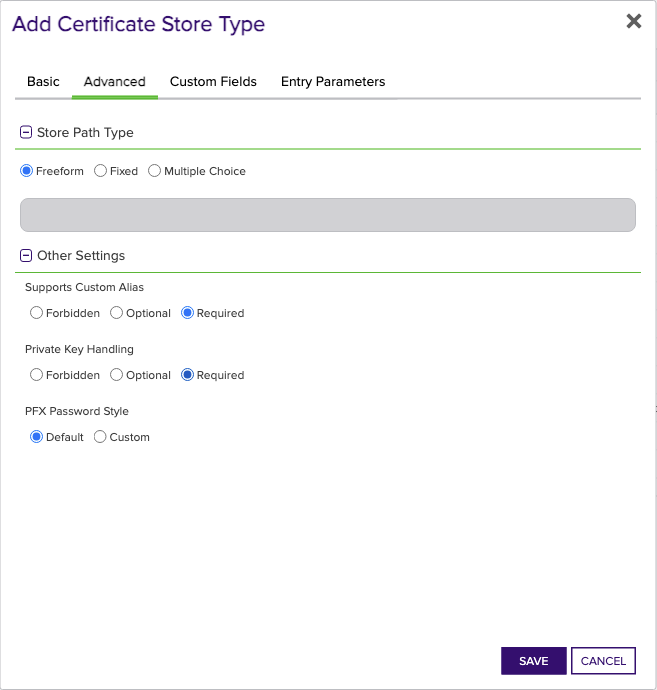
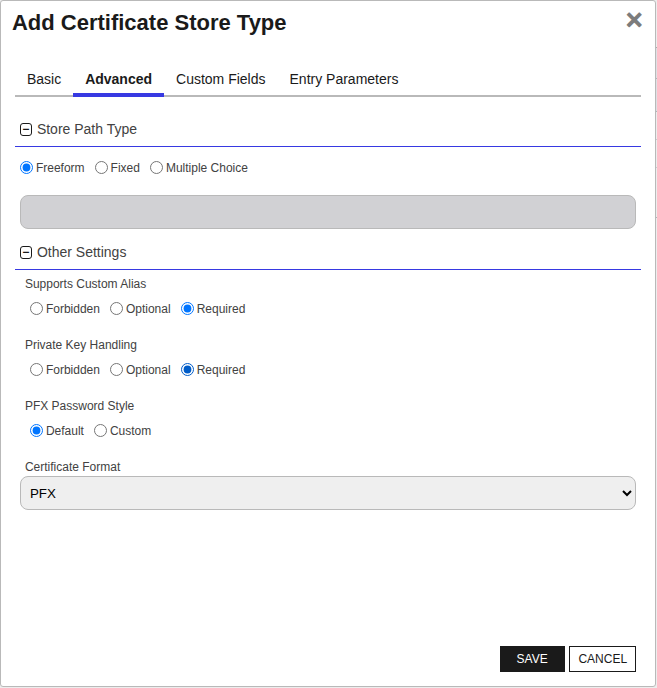
Ab#72774 (#17)
* bug fix addressing ab#72774
* Update generated docs

---------

diff --git a/Imperva/PAMUtilities.cs b/Imperva/PAMUtilities.cs
@@ -7,7 +7,7 @@ namespace Keyfactor.Extensions.Orchestrator.Imperva
     {
         internal static string ResolvePAMField(IPAMSecretResolver resolver, ILogger logger, string name, string key)
         {
-            logger.LogDebug($"Attempting to resolve PAM eligible field {name} with key {key}");
+            logger.LogDebug($"Attempting to resolve PAM eligible field {name}");
             return resolver.Resolve(key);
         }
     }

diff --git a/README.md b/README.md
@@ -40,8 +40,8 @@ The Imperva Orchestrator Extension allows for the management of SSL certificates
 This integration is compatible with Keyfactor Universal Orchestrator version 10.1 and later.
 
 ## Support
-The Imperva Universal Orchestrator extension is supported by Keyfactor for Keyfactor customers. If you have a support issue, please open a support ticket with your Keyfactor representative. If you have a support issue, please open a support ticket via the Keyfactor Support Portal at https://support.keyfactor.com. 
- 
+The Imperva Universal Orchestrator extension If you have a support issue, please open a support ticket by either contacting your Keyfactor representative or via the Keyfactor Support Portal at https://support.keyfactor.com.
+
 > To report a problem or suggest a new feature, use the **[Issues](../../issues)** tab. If you want to contribute actual bug fixes or proposed enhancements, use the **[Pull requests](../../pulls)** tab.
 
 ## Requirements & Prerequisites
@@ -52,82 +52,117 @@ Before installing the Imperva Universal Orchestrator extension, we recommend tha
 The Imperva Orchestrator Extension requires the creation of an Imperva account id, API id, and API key.  Please reference the [Imperva Documentation](https://docs.imperva.com/bundle/cloud-application-security/page/settings/api-keys.htm#:~:text=In%20the%20Cloud%20Security%20Console%20top%20menu%20bar%2C%20click%20Account,to%20create%20a%20new%20key) for more information on creating an API id and key for use with this integration.
 
 
-## Create the Imperva Certificate Store Type
+## Imperva Certificate Store Type
 
 To use the Imperva Universal Orchestrator extension, you **must** create the Imperva Certificate Store Type. This only needs to happen _once_ per Keyfactor Command instance.
 
 
 
-* **Create Imperva using kfutil**:
-
-    ```shell
-    # Imperva
-    kfutil store-types create Imperva
-    ```
-
-* **Create Imperva manually in the Command UI**:
-    <details><summary>Create Imperva manually in the Command UI</summary>
-
-    Create a store type called `Imperva` with the attributes in the tables below:
-
-    #### Basic Tab
-    | Attribute | Value | Description |
-    | --------- | ----- | ----- |
-    | Name | Imperva | Display name for the store type (may be customized) |
-    | Short Name | Imperva | Short display name for the store type |
-    | Capability | Imperva | Store type name orchestrator will register with. Check the box to allow entry of value |
-    | Supports Add | ✅ Checked | Check the box. Indicates that the Store Type supports Management Add |
-    | Supports Remove | ✅ Checked | Check the box. Indicates that the Store Type supports Management Remove |
-    | Supports Discovery | 🔲 Unchecked |  Indicates that the Store Type supports Discovery |
-    | Supports Reenrollment | 🔲 Unchecked |  Indicates that the Store Type supports Reenrollment |
-    | Supports Create | 🔲 Unchecked |  Indicates that the Store Type supports store creation |
-    | Needs Server | 🔲 Unchecked | Determines if a target server name is required when creating store |
-    | Blueprint Allowed | 🔲 Unchecked | Determines if store type may be included in an Orchestrator blueprint |
-    | Uses PowerShell | 🔲 Unchecked | Determines if underlying implementation is PowerShell |
-    | Requires Store Password | ✅ Checked | Enables users to optionally specify a store password when defining a Certificate Store. |
-    | Supports Entry Password | 🔲 Unchecked | Determines if an individual entry within a store can have a password. |
-
-    The Basic tab should look like this:
-
-    ![Imperva Basic Tab](docsource/images/Imperva-basic-store-type-dialog.png)
-
-    #### Advanced Tab
-    | Attribute | Value | Description |
-    | --------- | ----- | ----- |
-    | Supports Custom Alias | Required | Determines if an individual entry within a store can have a custom Alias. |
-    | Private Key Handling | Required | This determines if Keyfactor can send the private key associated with a certificate to the store. Required because IIS certificates without private keys would be invalid. |
-    | PFX Password Style | Default | 'Default' - PFX password is randomly generated, 'Custom' - PFX password may be specified when the enrollment job is created (Requires the Allow Custom Password application setting to be enabled.) |
-
-    The Advanced tab should look like this:
-
-    ![Imperva Advanced Tab](docsource/images/Imperva-advanced-store-type-dialog.png)
-
-    #### Custom Fields Tab
-    Custom fields operate at the certificate store level and are used to control how the orchestrator connects to the remote target server containing the certificate store to be managed. The following custom fields should be added to the store type:
-
-    | Name | Display Name | Description | Type | Default Value/Options | Required |
-    | ---- | ------------ | ---- | --------------------- | -------- | ----------- |
-
-    The Custom Fields tab should look like this:
-
-    ![Imperva Custom Fields Tab](docsource/images/Imperva-custom-fields-store-type-dialog.png)
 
 
 
-    </details>
+
+
+#### Supported Operations
+
+| Operation    | Is Supported                                                                                                           |
+|--------------|------------------------------------------------------------------------------------------------------------------------|
+| Add          | ✅ Checked        |
+| Remove       | ✅ Checked     |
+| Discovery    | 🔲 Unchecked  |
+| Reenrollment | 🔲 Unchecked |
+| Create       | 🔲 Unchecked     |
+
+#### Store Type Creation
+
+##### Using kfutil:
+`kfutil` is a custom CLI for the Keyfactor Command API and can be used to create certificate store types.
+For more information on [kfutil](https://github.com/Keyfactor/kfutil) check out the [docs](https://github.com/Keyfactor/kfutil?tab=readme-ov-file#quickstart)
+   <details><summary>Click to expand Imperva kfutil details</summary>
+
+   ##### Using online definition from GitHub:
+   This will reach out to GitHub and pull the latest store-type definition
+   ```shell
+   # Imperva
+   kfutil store-types create Imperva
+   ```
+
+   ##### Offline creation using integration-manifest file:
+   If required, it is possible to create store types from the [integration-manifest.json](./integration-manifest.json) included in this repo.
+   You would first download the [integration-manifest.json](./integration-manifest.json) and then run the following command
+   in your offline environment.
+   ```shell
+   kfutil store-types create --from-file integration-manifest.json
+   ```
+   </details>
+
+
+#### Manual Creation
+Below are instructions on how to create the Imperva store type manually in
+the Keyfactor Command Portal
+   <details><summary>Click to expand manual Imperva details</summary>
+
+   Create a store type called `Imperva` with the attributes in the tables below:
+
+   ##### Basic Tab
+   | Attribute | Value | Description |
+   | --------- | ----- | ----- |
+   | Name | Imperva | Display name for the store type (may be customized) |
+   | Short Name | Imperva | Short display name for the store type |
+   | Capability | Imperva | Store type name orchestrator will register with. Check the box to allow entry of value |
+   | Supports Add | ✅ Checked | Check the box. Indicates that the Store Type supports Management Add |
+   | Supports Remove | ✅ Checked | Check the box. Indicates that the Store Type supports Management Remove |
+   | Supports Discovery | 🔲 Unchecked |  Indicates that the Store Type supports Discovery |
+   | Supports Reenrollment | 🔲 Unchecked |  Indicates that the Store Type supports Reenrollment |
+   | Supports Create | 🔲 Unchecked |  Indicates that the Store Type supports store creation |
+   | Needs Server | 🔲 Unchecked | Determines if a target server name is required when creating store |
+   | Blueprint Allowed | 🔲 Unchecked | Determines if store type may be included in an Orchestrator blueprint |
+   | Uses PowerShell | 🔲 Unchecked | Determines if underlying implementation is PowerShell |
+   | Requires Store Password | ✅ Checked | Enables users to optionally specify a store password when defining a Certificate Store. |
+   | Supports Entry Password | 🔲 Unchecked | Determines if an individual entry within a store can have a password. |
+
+   The Basic tab should look like this:
+
+   ![Imperva Basic Tab](docsource/images/Imperva-basic-store-type-dialog.png)
+
+   ##### Advanced Tab
+   | Attribute | Value | Description |
+   | --------- | ----- | ----- |
+   | Supports Custom Alias | Required | Determines if an individual entry within a store can have a custom Alias. |
+   | Private Key Handling | Required | This determines if Keyfactor can send the private key associated with a certificate to the store. Required because IIS certificates without private keys would be invalid. |
+   | PFX Password Style | Default | 'Default' - PFX password is randomly generated, 'Custom' - PFX password may be specified when the enrollment job is created (Requires the Allow Custom Password application setting to be enabled.) |
+
+   The Advanced tab should look like this:
+
+   ![Imperva Advanced Tab](docsource/images/Imperva-advanced-store-type-dialog.png)
+
+   > For Keyfactor **Command versions 24.4 and later**, a Certificate Format dropdown is available with PFX and PEM options. Ensure that **PFX** is selected, as this determines the format of new and renewed certificates sent to the Orchestrator during a Management job. Currently, all Keyfactor-supported Orchestrator extensions support only PFX.
+
+   ##### Custom Fields Tab
+   Custom fields operate at the certificate store level and are used to control how the orchestrator connects to the remote target server containing the certificate store to be managed. The following custom fields should be added to the store type:
+
+   | Name | Display Name | Description | Type | Default Value/Options | Required |
+   | ---- | ------------ | ---- | --------------------- | -------- | ----------- |
+
+   The Custom Fields tab should look like this:
+
+   ![Imperva Custom Fields Tab](docsource/images/Imperva-custom-fields-store-type-dialog.png)
+
+   </details>
 
 ## Installation
 
-1. **Download the latest Imperva Universal Orchestrator extension from GitHub.** 
+1. **Download the latest Imperva Universal Orchestrator extension from GitHub.**
 
     Navigate to the [Imperva Universal Orchestrator extension GitHub version page](https://github.com/Keyfactor/imperva-orchestrator/releases/latest). Refer to the compatibility matrix below to determine whether the `net6.0` or `net8.0` asset should be downloaded. Then, click the corresponding asset to download the zip archive.
-    | Universal Orchestrator Version | Latest .NET version installed on the Universal Orchestrator server | `rollForward` condition in `Orchestrator.runtimeconfig.json` | `imperva-orchestrator` .NET version to download |
-    | --------- | ----------- | ----------- | ----------- |
-    | Older than `11.0.0` | | | `net6.0` |
-    | Between `11.0.0` and `11.5.1` (inclusive) | `net6.0` | | `net6.0` | 
-    | Between `11.0.0` and `11.5.1` (inclusive) | `net8.0` | `Disable` | `net6.0` | 
-    | Between `11.0.0` and `11.5.1` (inclusive) | `net8.0` | `LatestMajor` | `net8.0` | 
-    | `11.6` _and_ newer | `net8.0` | | `net8.0` |
+
+   | Universal Orchestrator Version | Latest .NET version installed on the Universal Orchestrator server | `rollForward` condition in `Orchestrator.runtimeconfig.json` | `imperva-orchestrator` .NET version to download |
+   | --------- | ----------- | ----------- | ----------- |
+   | Older than `11.0.0` | | | `net6.0` |
+   | Between `11.0.0` and `11.5.1` (inclusive) | `net6.0` | | `net6.0` |
+   | Between `11.0.0` and `11.5.1` (inclusive) | `net8.0` | `Disable` | `net6.0` |
+   | Between `11.0.0` and `11.5.1` (inclusive) | `net8.0` | `LatestMajor` | `net8.0` |
+   | `11.6` _and_ newer | `net8.0` | | `net8.0` |
 
     Unzip the archive containing extension assemblies to a known location.
 
@@ -137,9 +172,9 @@ To use the Imperva Universal Orchestrator extension, you **must** create the Imp
 
     * **Default on Windows** - `C:\Program Files\Keyfactor\Keyfactor Orchestrator\extensions`
     * **Default on Linux** - `/opt/keyfactor/orchestrator/extensions`
-    
+
 3. **Create a new directory for the Imperva Universal Orchestrator extension inside the extensions directory.**
-        
+
     Create a new directory called `imperva-orchestrator`.
     > The directory name does not need to match any names used elsewhere; it just has to be unique within the extensions directory.
 
@@ -150,14 +185,14 @@ To use the Imperva Universal Orchestrator extension, you **must** create the Imp
     Refer to [Starting/Restarting the Universal Orchestrator service](https://software.keyfactor.com/Core-OnPrem/Current/Content/InstallingAgents/NetCoreOrchestrator/StarttheService.htm).
 
 
-6. **(optional) PAM Integration** 
+6. **(optional) PAM Integration**
 
     The Imperva Universal Orchestrator extension is compatible with all supported Keyfactor PAM extensions to resolve PAM-eligible secrets. PAM extensions running on Universal Orchestrators enable secure retrieval of secrets from a connected PAM provider.
 
-    To configure a PAM provider, [reference the Keyfactor Integration Catalog](https://keyfactor.github.io/integrations-catalog/content/pam) to select an extension, and follow the associated instructions to install it on the Universal Orchestrator (remote).
+    To configure a PAM provider, [reference the Keyfactor Integration Catalog](https://keyfactor.github.io/integrations-catalog/content/pam) to select an extension and follow the associated instructions to install it on the Universal Orchestrator (remote).
 
 
-> The above installation steps can be supplimented by the [official Command documentation](https://software.keyfactor.com/Core-OnPrem/Current/Content/InstallingAgents/NetCoreOrchestrator/CustomExtensions.htm?Highlight=extensions).
+> The above installation steps can be supplemented by the [official Command documentation](https://software.keyfactor.com/Core-OnPrem/Current/Content/InstallingAgents/NetCoreOrchestrator/CustomExtensions.htm?Highlight=extensions).
 
 
 
@@ -165,85 +200,80 @@ To use the Imperva Universal Orchestrator extension, you **must** create the Imp
 
 
 
-* **Manually with the Command UI**
+### Store Creation
 
-    <details><summary>Create Certificate Stores manually in the UI</summary>
+#### Manually with the Command UI
 
-    1. **Navigate to the _Certificate Stores_ page in Keyfactor Command.**
+<details><summary>Click to expand details</summary>
 
-        Log into Keyfactor Command, toggle the _Locations_ dropdown, and click _Certificate Stores_.
+1. **Navigate to the _Certificate Stores_ page in Keyfactor Command.**
 
-    2. **Add a Certificate Store.**
+    Log into Keyfactor Command, toggle the _Locations_ dropdown, and click _Certificate Stores_.
 
-        Click the Add button to add a new Certificate Store. Use the table below to populate the **Attributes** in the **Add** form.
-        | Attribute | Description |
-        | --------- | ----------- |
-        | Category | Select "Imperva" or the customized certificate store name from the previous step. |
-        | Container | Optional container to associate certificate store with. |
-        | Client Machine | The URL that will be used as the base URL for Imperva endpoint calls.  Should be https://my.imperva.com |
-        | Store Path | Your Imperva account id.  Please refer to the [Imperva documentation](https://docs.imperva.com/howto/bd68301b) as to how to find your Imperva account id. |
-        | Orchestrator | Select an approved orchestrator capable of managing `Imperva` certificates. Specifically, one with the `Imperva` capability. |
-        | Store Password | Your Imperva API id and API key concatenated with a comma (,}.  For example: 12345,12345678-1234-1234-1234-123456789ABC.  Please refer to the [Imperva documentation](https://docs.imperva.com/bundle/cloud-application-security/page/settings/api-keys.htm#:~:text=In%20the%20Cloud%20Security%20Console%20top%20menu%20bar%2C%20click%20Account,to%20create%20a%20new%20key.) as to how to create an API id and key. |
+2. **Add a Certificate Store.**
 
-        
+    Click the Add button to add a new Certificate Store. Use the table below to populate the **Attributes** in the **Add** form.
 
-        <details><summary>Attributes eligible for retrieval by a PAM Provider on the Universal Orchestrator</summary>
+   | Attribute | Description                                             |
+   | --------- |---------------------------------------------------------|
+   | Category | Select "Imperva" or the customized certificate store name from the previous step. |
+   | Container | Optional container to associate certificate store with. |
+   | Client Machine | The URL that will be used as the base URL for Imperva endpoint calls.  Should be https://my.imperva.com |
+   | Store Path | Your Imperva account id.  Please refer to the [Imperva documentation](https://docs.imperva.com/howto/bd68301b) as to how to find your Imperva account id. |
+   | Store Password | Your Imperva API id and API key concatenated with a comma (,}.  For example: 12345,12345678-1234-1234-1234-123456789ABC.  Please refer to the [Imperva documentation](https://docs.imperva.com/bundle/cloud-application-security/page/settings/api-keys.htm#:~:text=In%20the%20Cloud%20Security%20Console%20top%20menu%20bar%2C%20click%20Account,to%20create%20a%20new%20key.) as to how to create an API id and key. |
+   | Orchestrator | Select an approved orchestrator capable of managing `Imperva` certificates. Specifically, one with the `Imperva` capability. |
 
-        If a PAM provider was installed _on the Universal Orchestrator_ in the [Installation](#Installation) section, the following parameters can be configured for retrieval _on the Universal Orchestrator_.
-        | Attribute | Description |
-        | --------- | ----------- |
-        | Store Password | Your Imperva API id and API key concatenated with a comma (,}.  For example: 12345,12345678-1234-1234-1234-123456789ABC.  Please refer to the [Imperva documentation](https://docs.imperva.com/bundle/cloud-application-security/page/settings/api-keys.htm#:~:text=In%20the%20Cloud%20Security%20Console%20top%20menu%20bar%2C%20click%20Account,to%20create%20a%20new%20key.) as to how to create an API id and key. |
+</details>
 
-        Please refer to the **Universal Orchestrator (remote)** usage section ([PAM providers on the Keyfactor Integration Catalog](https://keyfactor.github.io/integrations-catalog/content/pam)) for your selected PAM provider for instructions on how to load attributes orchestrator-side.
 
-        > Any secret can be rendered by a PAM provider _installed on the Keyfactor Command server_. The above parameters are specific to attributes that can be fetched by an installed PAM provider running on the Universal Orchestrator server itself. 
-        </details>
-        
 
-    </details>
+#### Using kfutil CLI
 
-* **Using kfutil**
-    
-    <details><summary>Create Certificate Stores with kfutil</summary>
-    
-    1. **Generate a CSV template for the Imperva certificate store**
+<details><summary>Click to expand details</summary>
 
-        ```shell
-        kfutil stores import generate-template --store-type-name Imperva --outpath Imperva.csv
-        ```
-    2. **Populate the generated CSV file**
+1. **Generate a CSV template for the Imperva certificate store**
 
-        Open the CSV file, and reference the table below to populate parameters for each **Attribute**.
-        | Attribute | Description |
-        | --------- | ----------- |
-        | Category | Select "Imperva" or the customized certificate store name from the previous step. |
-        | Container | Optional container to associate certificate store with. |
-        | Client Machine | The URL that will be used as the base URL for Imperva endpoint calls.  Should be https://my.imperva.com |
-        | Store Path | Your Imperva account id.  Please refer to the [Imperva documentation](https://docs.imperva.com/howto/bd68301b) as to how to find your Imperva account id. |
-        | Orchestrator | Select an approved orchestrator capable of managing `Imperva` certificates. Specifically, one with the `Imperva` capability. |
-        | Store Password | Your Imperva API id and API key concatenated with a comma (,}.  For example: 12345,12345678-1234-1234-1234-123456789ABC.  Please refer to the [Imperva documentation](https://docs.imperva.com/bundle/cloud-application-security/page/settings/api-keys.htm#:~:text=In%20the%20Cloud%20Security%20Console%20top%20menu%20bar%2C%20click%20Account,to%20create%20a%20new%20key.) as to how to create an API id and key. |
+    ```shell
+    kfutil stores import generate-template --store-type-name Imperva --outpath Imperva.csv
+    ```
+2. **Populate the generated CSV file**
 
-        
+    Open the CSV file, and reference the table below to populate parameters for each **Attribute**.
 
-        <details><summary>Attributes eligible for retrieval by a PAM Provider on the Universal Orchestrator</summary>
+   | Attribute | Description |
+   | --------- | ----------- |
+   | Category | Select "Imperva" or the customized certificate store name from the previous step. |
+   | Container | Optional container to associate certificate store with. |
+   | Client Machine | The URL that will be used as the base URL for Imperva endpoint calls.  Should be https://my.imperva.com |
+   | Store Path | Your Imperva account id.  Please refer to the [Imperva documentation](https://docs.imperva.com/howto/bd68301b) as to how to find your Imperva account id. |
+   | Store Password | Your Imperva API id and API key concatenated with a comma (,}.  For example: 12345,12345678-1234-1234-1234-123456789ABC.  Please refer to the [Imperva documentation](https://docs.imperva.com/bundle/cloud-application-security/page/settings/api-keys.htm#:~:text=In%20the%20Cloud%20Security%20Console%20top%20menu%20bar%2C%20click%20Account,to%20create%20a%20new%20key.) as to how to create an API id and key. |
+   | Orchestrator | Select an approved orchestrator capable of managing `Imperva` certificates. Specifically, one with the `Imperva` capability. |
 
-        If a PAM provider was installed _on the Universal Orchestrator_ in the [Installation](#Installation) section, the following parameters can be configured for retrieval _on the Universal Orchestrator_.
-        | Attribute | Description |
-        | --------- | ----------- |
-        | Store Password | Your Imperva API id and API key concatenated with a comma (,}.  For example: 12345,12345678-1234-1234-1234-123456789ABC.  Please refer to the [Imperva documentation](https://docs.imperva.com/bundle/cloud-application-security/page/settings/api-keys.htm#:~:text=In%20the%20Cloud%20Security%20Console%20top%20menu%20bar%2C%20click%20Account,to%20create%20a%20new%20key.) as to how to create an API id and key. |
+3. **Import the CSV file to create the certificate stores**
 
-        > Any secret can be rendered by a PAM provider _installed on the Keyfactor Command server_. The above parameters are specific to attributes that can be fetched by an installed PAM provider running on the Universal Orchestrator server itself. 
-        </details>
-        
+    ```shell
+    kfutil stores import csv --store-type-name Imperva --file Imperva.csv
+    ```
 
-    3. **Import the CSV file to create the certificate stores** 
+</details>
 
-        ```shell
-        kfutil stores import csv --store-type-name Imperva --file Imperva.csv
-        ```
-    </details>
 
-> The content in this section can be supplimented by the [official Command documentation](https://software.keyfactor.com/Core-OnPrem/Current/Content/ReferenceGuide/Certificate%20Stores.htm?Highlight=certificate%20store).
+#### PAM Provider Eligible Fields
+<details><summary>Attributes eligible for retrieval by a PAM Provider on the Universal Orchestrator</summary>
+
+If a PAM provider was installed _on the Universal Orchestrator_ in the [Installation](#Installation) section, the following parameters can be configured for retrieval _on the Universal Orchestrator_.
+
+   | Attribute | Description |
+   | --------- | ----------- |
+   | StorePassword | Your Imperva API id and API key concatenated with a comma (,}.  For example: 12345,12345678-1234-1234-1234-123456789ABC.  Please refer to the [Imperva documentation](https://docs.imperva.com/bundle/cloud-application-security/page/settings/api-keys.htm#:~:text=In%20the%20Cloud%20Security%20Console%20top%20menu%20bar%2C%20click%20Account,to%20create%20a%20new%20key.) as to how to create an API id and key. |
+
+Please refer to the **Universal Orchestrator (remote)** usage section ([PAM providers on the Keyfactor Integration Catalog](https://keyfactor.github.io/integrations-catalog/content/pam)) for your selected PAM provider for instructions on how to load attributes orchestrator-side.
+> Any secret can be rendered by a PAM provider _installed on the Keyfactor Command server_. The above parameters are specific to attributes that can be fetched by an installed PAM provider running on the Universal Orchestrator server itself.
+
+</details>
+
+
+> The content in this section can be supplemented by the [official Command documentation](https://software.keyfactor.com/Core-OnPrem/Current/Content/ReferenceGuide/Certificate%20Stores.htm?Highlight=certificate%20store).
 
 
 

diff --git a/CHANGELOG.md b/CHANGELOG.md
@@ -1,3 +1,6 @@
+v1.1.1
+- Bug fix to prevent API key logging 
+
 v1.1.0
 - Modified build to produce .net6 and .net8 compatible versions
 - Updated README documentation to use doctool
